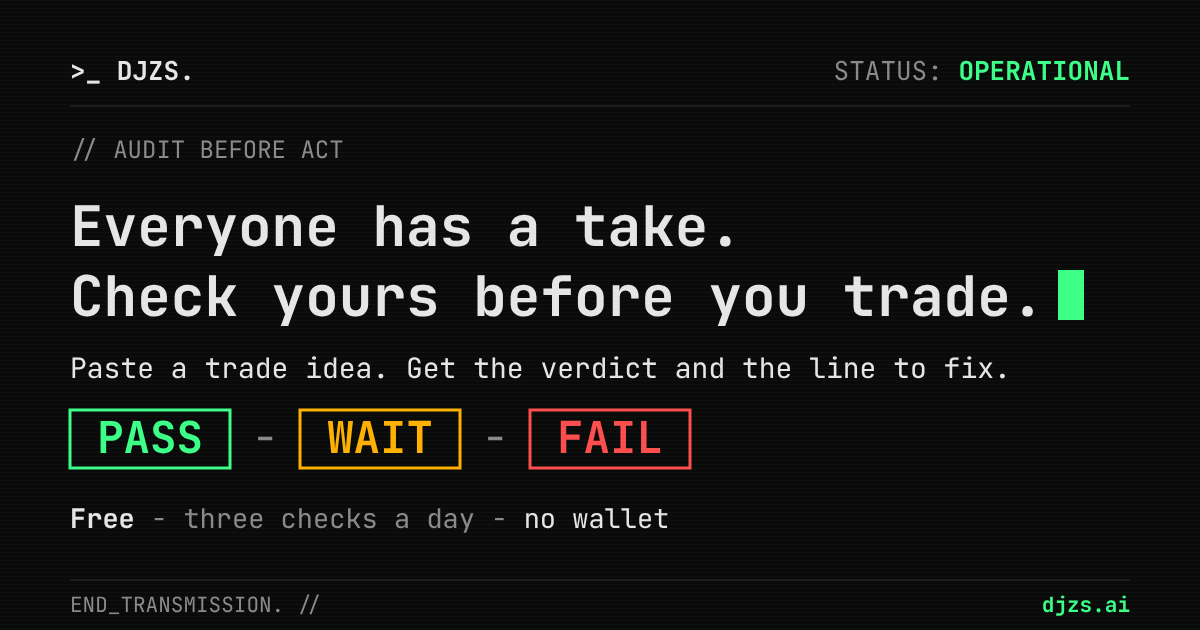
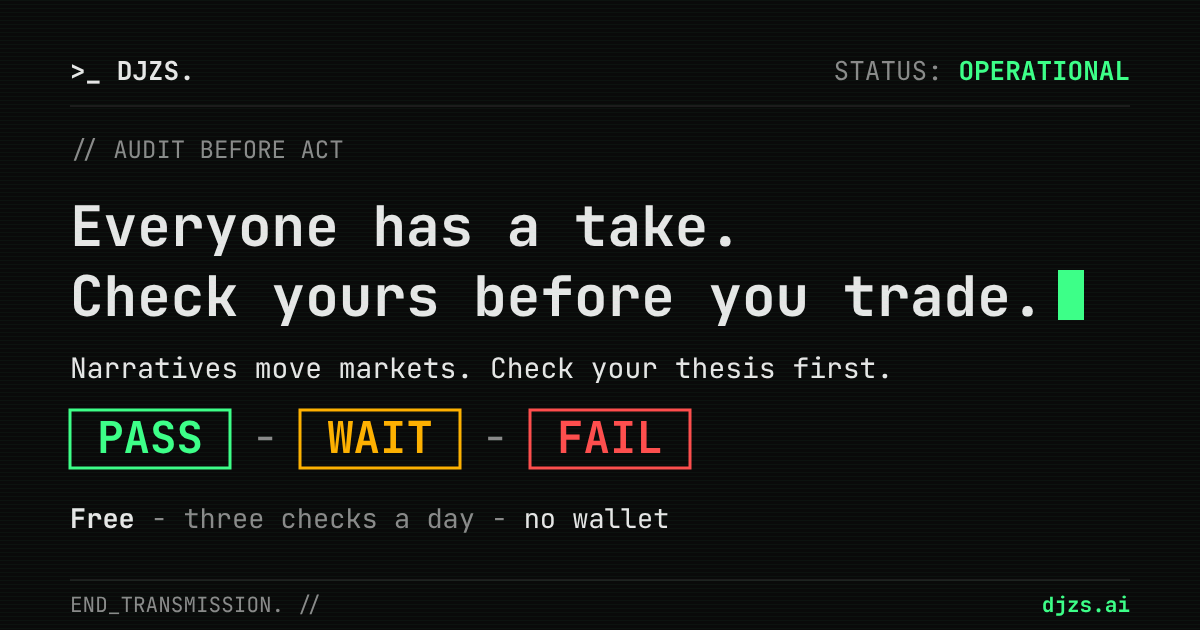
site: "thesis", not "idea", and the narrative line up front
DJ, 2026-11-21: the pages say idea instead of thesis and nothing about narratives.

- Every visible "idea" on the home page and /verify is now "thesis". Element ids are unchanged.
  On /verify the row names changed with their lookups ("The thesis it was for").
- Home lede: "Narratives move markets. Check that your thesis stands on more than the story: a
  stop, a source for your odds, and the rule the market really pays on."
- The sample tabs are labelled "three narratives in the news, one thesis on each".
- Page descriptions and the social card carry the same line; og:image is versioned to v=3.

The wording says what to check a thesis for. It does not claim the check detects a narrative.

Claude-Session: https://claude.ai/code/session_01VQGRMZjHoqD7X4Lzz229Gr

Changed region(s): [[0.0617, 0.573, 0.8325, 0.6032]]

diff --git a/site/index.html b/site/index.html
@@ -4,18 +4,18 @@
 <meta charset="utf-8">
 <meta name="viewport" content="width=device-width, initial-scale=1, viewport-fit=cover">
 <title>DJZS: everyone has a take. Check yours before you trade.</title>
-<meta name="description" content="Paste a prediction-market bet or a perp trade. Get PASS, WAIT or FAIL with the reasons in plain words. Free, no wallet. Agents: mcp.djzs.ai/mcp">
+<meta name="description" content="Narratives move markets. Paste your thesis for a prediction-market bet or a perp trade and get PASS, WAIT or FAIL with the reasons in plain words. Free, no wallet. Agents: mcp.djzs.ai/mcp">
 <link rel="canonical" href="https://djzs.ai/">
 <meta property="og:type" content="website">
 <meta property="og:site_name" content="DJZS">
 <meta property="og:title" content="Everyone has a take. Check yours before you trade.">
-<meta property="og:description" content="Paste the idea. Get PASS, WAIT or FAIL with the reasons in plain words and the line to fix. Free, three a day, no wallet. Agents connect at mcp.djzs.ai/mcp.">
+<meta property="og:description" content="Narratives move markets. Check that your thesis stands on more than the story. PASS, WAIT or FAIL with the line to fix. Free, three a day, no wallet. Agents connect at mcp.djzs.ai/mcp.">
 <meta property="og:url" content="https://djzs.ai/">
-<meta property="og:image" content="https://djzs.ai/og.png?v=2">
+<meta property="og:image" content="https://djzs.ai/og.png?v=3">
 <meta property="og:image:width" content="1200">
 <meta property="og:image:height" content="630">
 <meta name="twitter:card" content="summary_large_image">
-<meta name="twitter:image" content="https://djzs.ai/og.png?v=2">
+<meta name="twitter:image" content="https://djzs.ai/og.png?v=3">
 <meta name="theme-color" content="#0A0A0A">
 <meta name="base:app_id" content="6a4ff1335b92d87d8ee9e8f0">
 <link rel="preload" href="/assets/fonts/JetBrainsMono-latin.woff2" as="font" type="font/woff2" crossorigin>
@@ -52,6 +52,7 @@
   /* the hero shows one real check as the terminal would print it */
   .demo{border:1px solid var(--fail);background:var(--well);padding:18px 20px 16px;font-size:14px}
   @media (min-width:980px){.hero h1{font-size:min(46px,3.6vw)}}
+  .demo > .label{margin:0 0 10px}
   .demo .exrow{margin:0 0 16px;gap:0}
   .demo .exrow .btn{flex:1 1 0;min-width:0;min-height:46px;padding:8px 10px;font-size:11.5px;letter-spacing:.04em;background:transparent;border-color:var(--rule);color:var(--muted);margin-left:-1px}.demo .exrow .btn:first-child{margin-left:0}
   .demo .exrow .btn.on{color:var(--canvas);background:var(--text);border-color:var(--text)}
@@ -104,7 +105,7 @@
   .log{margin:12px 0 0;font-size:14px;color:var(--muted);min-height:1.6em}.log .xx{color:var(--fail)}.log .ok{color:var(--pass)}
   .quota{margin:4px 0 0;font-size:12.5px;color:var(--muted)}
 
-  /* the examples: sample ideas on real markets, each with the answer the live check gave for it */
+  /* the examples: sample theses on real markets, each with the answer the live check gave for it */
   .examples{margin:0 0 20px}
   .exrow{display:flex;flex-wrap:wrap;gap:8px}
   .exrow .btn{flex:1 1 200px;display:flex;flex-direction:column;align-items:flex-start;gap:4px;text-align:left;font-size:13.5px;letter-spacing:.05em;padding:12px 16px;min-height:60px;color:var(--text);border-color:#3a3a3a;background:var(--panel)}.exrow .btn .m{font-size:11.5px;font-weight:400;letter-spacing:.04em;color:var(--muted);text-transform:none}
@@ -186,11 +187,12 @@
       <div class="hero-copy">
       <p class="path"><span class="p">~/djzs</span> $ <span id="cmd">check --pm</span><span class="cursor" aria-hidden="true"></span></p>
       <h1 id="h1">Everyone has a take. <span class="l2">Check yours before you trade.</span></h1>
-      <p class="lede">Find the hole in your trade before the market does: the missing stop, the odds with no source, the rule you did not read.</p>
-      <p class="lede2">Paste the idea. Get <b class="c-pass">PASS</b>, <b class="c-wait">WAIT</b> or <b class="c-fail">FAIL</b> and the line to fix. Free, three a day, no wallet.</p>
+      <p class="lede">Narratives move markets. Check that your thesis stands on more than the story: a stop, a source for your odds, and the rule the market really pays on.</p>
+      <p class="lede2">Paste the thesis. Get <b class="c-pass">PASS</b>, <b class="c-wait">WAIT</b> or <b class="c-fail">FAIL</b> and the line to fix. Free, three a day, no wallet.</p>
       </div>
       <div class="demo" id="demo">
-        <div class="exrow" id="ex-row" role="group" aria-label="Sample ideas from the news">
+        <p class="label">three narratives in the news, one thesis on each</p>
+        <div class="exrow" id="ex-row" role="group" aria-label="Sample theses from the news">
           <button type="button" class="btn" data-ex="dip" aria-pressed="false">Chasing the dip</button>
           <button type="button" class="btn" data-ex="headline" aria-pressed="false">Betting the headline</button>
           <button type="button" class="btn" data-ex="bubble" aria-pressed="false">Shorting the bubble</button>
@@ -215,7 +217,7 @@
     </ul>
 
     <section class="step" id="idea" aria-labelledby="s1">
-      <p class="label" id="s1">your trade idea</p>
+      <p class="label" id="s1">your trade thesis</p>
       <div class="panel">
         <p class="status" id="last-status" hidden></p>
         <div class="kind" role="group" aria-label="What are you checking?">
@@ -223,8 +225,8 @@
           <button type="button" class="btn" id="kind-perp" aria-pressed="false">Perp or spot trade</button>
         </div>
         <p class="hint" id="kind-hint">Name the venue and the question.</p>
-        <details class="needs" id="needs"><summary>What a complete idea includes</summary><ul id="needs-list"><li>The market's own terms: the question, the date it settles, and the source that settles it.</li><li>Your odds and where they come from: the number, a source someone else can check (a dataset, an official source or your own math), and the date you read it.</li><li>What would prove you wrong: the specific event, before the market settles.</li><li>Why the market is wrong. &ldquo;Everyone agrees&rdquo; is not a reason. This one is advice; it never changes the verdict.</li></ul></details>
-        <label class="flabel" for="thesis" id="thesis-label">Your idea</label>
+        <details class="needs" id="needs"><summary>What a complete thesis includes</summary><ul id="needs-list"><li>The market's own terms: the question, the date it settles, and the source that settles it.</li><li>Your odds and where they come from: the number, a source someone else can check (a dataset, an official source or your own math), and the date you read it.</li><li>What would prove you wrong: the specific event, before the market settles.</li><li>Why the market is wrong. &ldquo;Everyone agrees&rdquo; is not a reason. This one is advice; it never changes the verdict.</li></ul></details>
+        <label class="flabel" for="thesis" id="thesis-label">Your thesis</label>
         <textarea id="thesis" rows="8" spellcheck="true" placeholder="Kalshi, [the market question]. It settles on [date] by [source]. I am buying [YES or NO] at [price]. [Your source] puts it at [number] as of [date]. I am wrong if [specific event] happens before it settles."></textarea>
         <div class="controls">
           <button type="button" class="btn" id="run" disabled>Check it</button>
@@ -244,7 +246,7 @@
         <div class="change" id="change" hidden><p class="line"><b>change //</b> <span id="change-from"></span> &rarr; <span id="change-to"></span></p><p class="say" id="change-say"></p></div>
         <div class="ledger" id="ledger"></div>
         <div class="cleared" id="cleared" hidden><p class="label">cleared since the last check</p><div id="cleared-list"></div></div>
-        <p class="again" id="again" hidden><a href="#thesis" id="edit-link">Edit the idea</a>, then press <b>Check again</b>. Fixing a reason clears its flag. It does not make the trade good.</p>
+        <p class="again" id="again" hidden><a href="#thesis" id="edit-link">Edit the thesis</a>, then press <b>Check again</b>. Fixing a reason clears its flag. It does not make the trade good.</p>
         <p class="again" id="recorded" hidden></p>
         <details class="tech"><summary>Technical details (hashes, codes, ruleset)</summary><div class="keys" id="keys"></div></details>
         <div class="offer" id="offer">
@@ -283,12 +285,12 @@
 
   <footer>
     <nav aria-label="More"><a href="/docs">Docs</a><a href="/scan">Scan room</a><a href="/build">Services</a><a href="https://github.com/SIFR0-dev/djzs-AI/issues">Support</a><a href="/legal">Legal</a><a href="/terms">Terms</a><a href="https://x.com/Djzs_ai">X @Djzs_ai</a></nav>
-    <div class="k"><b>audit, not advice</b>: a verdict says whether the idea is complete and free of the listed defects. It does not check that your facts are true, and never says the trade wins. An example market, when one is loaded, is real; it is not a recommendation. <a href="/terms">Terms</a>. <a href="/docs/measured">What has and has not been measured</a>.</div>
+    <div class="k"><b>audit, not advice</b>: a verdict says whether the thesis is complete and free of the listed defects. It does not check that your facts are true, and never says the trade wins. An example market, when one is loaded, is real; it is not a recommendation. <a href="/terms">Terms</a>. <a href="/docs/measured">What has and has not been measured</a>.</div>
     <p class="sig"><span class="p">END_TRANSMISSION.</span> // djzs.ai &middot; audit before act</p>
   </footer>
 </div>
 
-<!-- Three sample ideas on real markets. Each `body` is the answer the live free check gave for that exact `thesis` on the
+<!-- Three sample theses on real markets. Each `body` is the answer the live free check gave for that exact `thesis` on the
      `checked` day, recorded unchanged after two runs agreed. djzs-trust-mcp/test/site-examples.test.mjs recomputes both
      hashes from the text. To swap one: write the text, POST it to /try/verdict twice, paste the answer, move `closes`.
      After `closes` (a UTC day) the page stops offering them. -->
@@ -389,9 +391,9 @@ $("clear").addEventListener("click", () => { $("thesis").value = ""; dropExample
 $("edit-link").addEventListener("click", (e) => { e.preventDefault(); scrollToEl($("idea")); $("thesis").focus({ preventScroll: true }); });
 const KIND = {
   pm: { needs: ["The market's own terms: the question, the date it settles, and the source that settles it.", "Your odds and where they come from: the number, a source someone else can check (a dataset, an official source or your own math), and the date you read it.", "What would prove you wrong: the specific event, before the market settles.", "Why the market is wrong. \u201CEveryone agrees\u201D is not a reason. This one is advice; it never changes the verdict."],
-        hint: "Name the venue and the question.", label: "Your idea", ph: "Kalshi, [the market question]. It settles on [date] by [source]. I am buying [YES or NO] at [price]. [Your source] puts it at [number] as of [date]. I am wrong if [specific event] happens before it settles." },
+        hint: "Name the venue and the question.", label: "Your thesis", ph: "Kalshi, [the market question]. It settles on [date] by [source]. I am buying [YES or NO] at [price]. [Your source] puts it at [number] as of [date]. I am wrong if [specific event] happens before it settles." },
   perp: { needs: ["The instrument, long or short, and your entry.", "Your stop, or the event that would prove you wrong.", "Your size and leverage.", "Why the price should move, in one sentence, with the data behind it and the date you read it. What other people are doing is not a reason."],
-        hint: "Name the instrument and say long or short.", label: "Your idea", ph: "[Venue], [instrument], [long or short] at [entry]. Stop at [price], target [price], size [amount], [n]x. The price should move because [reason], per [source] as of [date]. I am out if [event]." },
+        hint: "Name the instrument and say long or short.", label: "Your thesis", ph: "[Venue], [instrument], [long or short] at [entry]. Stop at [price], target [price], size [amount], [n]x. The price should move because [reason], per [source] as of [date]. I am out if [event]." },
 };
 function setKind(k){
   state.kind = k;
@@ -408,7 +410,7 @@ $("kind-perp").addEventListener("click", () => setKind("perp"));
 // A link can open the perp check directly: djzs.ai/?kind=perp
 if (new URLSearchParams(location.search).get("kind") === "perp") setKind("perp");
 
-// ── the three examples. Sample ideas on real markets, each carrying the answer the live check gave for that exact
+// ── the three examples. Sample theses on real markets, each carrying the answer the live check gave for that exact
 // text, recorded unchanged. Loading one calls nothing and uses no free check. Past `closes` none is offered.
 const EX = (() => { try { return JSON.parse($("examples-data").textContent); } catch { return null; } })();
 const exampleList = EX && Array.isArray(EX.examples) && new Date().toISOString().slice(0, 10) <= EX.closes ? EX.examples : [];
@@ -454,7 +456,7 @@ function dropExample(){
   state.last = null; markExample(null);
   $("out").hidden = true; $("last-status").hidden = true;
 }
-// An example's recorded answer is a fair "before" only for an edit of that example, not for another idea typed over it.
+// An example's recorded answer is a fair "before" only for an edit of that example, not for another thesis typed over it.
 function sameIdea(a, b){
   const words = (t) => new Set(t.toLowerCase().match(/[a-z0-9$%]+/g) ?? []);
   const A = words(a), B = words(b); let n = 0;
@@ -486,7 +488,7 @@ $("run").addEventListener("click", async () => {
   const kind = state.kind;
   const btn = $("run"); btn.disabled = true;
   try {
-    log("run-log", "Reading the idea, then scoring it…");
+    log("run-log", "Reading the thesis, then scoring it…");
     const r = await fetch(`${WORKER}/try/verdict`, { method: "POST", headers: { "content-type": "application/json" }, body: JSON.stringify({ kind, intent, anon: anonId() }) });
     const body = await r.json().catch(() => ({ ok: false, error: `the check answered HTTP ${r.status}` }));
     if (!r.ok || !body.ok) {
@@ -510,13 +512,13 @@ $("run").addEventListener("click", async () => {
 // Plain names, what fired, and the line to fix. Fixed text keyed by the engine's code name: nothing here is written by a model.
 // The engine's `evidence` field is its own rule sentence, not a quote of the user's text, so it is never shown as one.
 const FLAG = {
-  FALSIFICATION_ABSENT:     { name: "No way to be wrong", what: "The idea treats the outcome as settled and names nothing that would prove it wrong.", fix: "Write the specific event that would prove you wrong before the market settles." },
+  FALSIFICATION_ABSENT:     { name: "No way to be wrong", what: "The thesis treats the outcome as settled and names nothing that would prove it wrong.", fix: "Write the specific event that would prove you wrong before the market settles." },
   NARRATIVE_RESOLUTION_GAP: { name: "Off the market's terms", what: "The reasoning argues something next to this market's question, not its own date, threshold, definition or settlement source.", fix: "Argue the market's own terms: the date it resolves, its threshold or definition, and the source that settles it." },
   PROBABILITY_UNSOURCED:    { name: "Odds with no source", what: "There is a probability, or an implied one, with no checkable source behind it.", fix: "Back the claim with something checkable: a dataset, an official source or your own math, and the date you read it." },
   CONSENSUS_NO_EDGE:        { name: "Agreement is not an edge", what: "The reason given is that everyone agrees, or that the price already says so.", fix: "Say why the market is wrong. This one is advice: it never changes the verdict.", advice: true },
-  EXECUTION_UNBOUND:        { name: "No stop or size limit", what: "Nothing in the idea limits the loss or says when the trade ends.", fix: "Write the stop level and the largest size you will allow, before the order goes out." },
-  CIRCULAR_LOGIC:           { name: "No reason for the trade", what: "The idea states a position but no reason the price should move.", fix: "Say in one sentence why the price should move." },
-  ORACLE_UNVERIFIED:        { name: "Data source not vouched for", what: "The trade leans on a data source the idea does not vouch for.", fix: "Name each source you rely on, who publishes it, and when you read it." },
+  EXECUTION_UNBOUND:        { name: "No stop or size limit", what: "Nothing in the thesis limits the loss or says when the trade ends.", fix: "Write the stop level and the largest size you will allow, before the order goes out." },
+  CIRCULAR_LOGIC:           { name: "No reason for the trade", what: "The thesis states a position but no reason the price should move.", fix: "Say in one sentence why the price should move." },
+  ORACLE_UNVERIFIED:        { name: "Data source not vouched for", what: "The trade leans on a data source the thesis does not vouch for.", fix: "Name each source you rely on, who publishes it, and when you read it." },
   FOMO_LOOP:                { name: "Chasing the crowd", what: "The reason given is what other people are doing or saying.", fix: "Replace the social signal with a number you can check, or say why the crowd is wrong." },
 };
 const UNSETTLED = {
@@ -528,7 +530,7 @@ const UNSETTLED = {
   position_size:          { name: "Your size", fix: "State the position size." },
   leverage:               { name: "Your leverage", fix: "State the leverage, or say there is none." },
   take_profit:            { name: "Your target", fix: "State the price where you take profit." },
-  data_sources:           { name: "The data you relied on", fix: "Name the data behind the idea and when you read it." },
+  data_sources:           { name: "The data you relied on", fix: "Name the data behind the thesis and when you read it." },
   oracle_source:          { name: "Your price source", fix: "Name the price feed the trade depends on." },
   confidence:             { name: "How sure you are", fix: "Say how confident you are and what that rests on." },
 };
@@ -615,8 +617,8 @@ function renderExampleHead(ex){
   head.hidden = !ex; rec.hidden = !ex;
   if (!ex) { head.innerHTML = ""; rec.innerHTML = ""; return; }
   const where = ex.url ? `<a href="${esc(ex.url)}" target="_blank" rel="noopener">${esc(ex.where)}</a>` : esc(ex.where);
-  head.innerHTML = `<p class="label">sample idea</p><q>${esc(ex.thesis)}</q>${ex.rule ? `<span class="src rule">${esc(ex.rule)}</span>` : ""}<span class="src">Real market: ${where}. Written ${esc(EX.checked)}. A sample, not a recommendation.</span>`;
-  rec.innerHTML = `Recorded ${esc(EX.checked)}: the answer the live check gave for this exact text. <a href="#thesis" id="ex-edit">Edit the idea</a>, then check it yourself. That uses one free check.`;
+  head.innerHTML = `<p class="label">sample thesis</p><q>${esc(ex.thesis)}</q>${ex.rule ? `<span class="src rule">${esc(ex.rule)}</span>` : ""}<span class="src">Real market: ${where}. Written ${esc(EX.checked)}. A sample, not a recommendation.</span>`;
+  rec.innerHTML = `Recorded ${esc(EX.checked)}: the answer the live check gave for this exact text. <a href="#thesis" id="ex-edit">Edit the thesis</a>, then check it yourself. That uses one free check.`;
   $("ex-edit").addEventListener("click", (e) => { e.preventDefault(); scrollToEl($("idea")); $("thesis").focus({ preventScroll: true }); });
 }
 
@@ -631,7 +633,7 @@ function renderVerdict(b, prev, ex){
   const unknown = Array.isArray(b.unknown_fields) ? b.unknown_fields : [];
   const flags = Array.isArray(b.flags_detail) ? b.flags_detail : [];
   const critical = flags.filter((f) => f.severity === "CRITICAL").length;
-  const titles = { pass: "Nothing failed", wait: "Not enough to judge", fail: "Do not place this", refused: "Skipped: not the kind of idea selected above" };
+  const titles = { pass: "Nothing failed", wait: "Not enough to judge", fail: "Do not place this", refused: "Skipped: not the kind of thesis selected above" };
   $("vtitle").textContent = titles[st];
   $("vmeta").textContent = st === "refused" ? "" : `score ${b.risk_score} · fails at ${LINE[kind]}`;
   let note = "";
@@ -645,16 +647,16 @@ function renderVerdict(b, prev, ex){
   renderChange(prev, { ...b, kind });
   const detail = Array.isArray(b.unsettled) ? Object.fromEntries(b.unsettled.filter((x) => x && typeof x.field === "string").map((x) => [x.field, x])) : {};
   const rows = flags.map(flagRow).join("") + unknown.map((u) => unsettledRow(u, b.verdict, detail[u])).join("");
-  $("ledger").innerHTML = rows || (st === "pass" ? `<div class="claim" data-r="pass"><span class="tok">OK</span><p class="claim-name">No defects<span class="chip">0 flags</span></p><p class="claim-body">Every scored part of the idea was there and no failure pattern matched.</p></div>` : "");
+  $("ledger").innerHTML = rows || (st === "pass" ? `<div class="claim" data-r="pass"><span class="tok">OK</span><p class="claim-name">No defects<span class="chip">0 flags</span></p><p class="claim-body">Every scored part of the thesis was there and no failure pattern matched.</p></div>` : "");
   $("ledger").hidden = !rows && st !== "pass";
   $("again").hidden = !!ex || st === "pass" || st === "refused";
   $("keys").innerHTML = st === "refused" ? "" : `<span>codes</span><b>${esc((b.flags ?? []).join(", ") || "none")}</b><span>ruleset</span><b>${esc(b.ruleset ?? "")}</b><span>intent_sha256</span><b>${esc(b.intent_sha256 ?? "")}</b><span>intent_hash</span><b>${esc(b.intent_hash ?? "n/a (free-text intent)")}</b><span>verdict_hash</span><b>${esc(b.verdict_hash ?? "")}</b><span>attested</span><b>no. Free verdicts are not written anywhere.</b>`;
-  // A sample idea is not something to buy a receipt for. The offer comes back with the person's own check.
+  // A sample thesis is not something to buy a receipt for. The offer comes back with the person's own check.
   $("offer").hidden = st === "refused" || !!ex;
   setReceiptFields(kind);
   $("pay").disabled = false; log("pay-log", "");
   const ls = $("last-status");
-  ls.innerHTML = ex ? `<span class="ok">EX</span><span class="v">Example loaded, with the answer the check gave it. Edit it and check it yourself, or press <b>Clear</b> and paste your own.</span>` : st === "refused" ? `<span class="dd">--</span><span class="v">Last check was skipped. Pick the right kind, or name the venue, then check again.</span>` : `<span class="dd">--</span><span class="v">Last check: <b>${esc(b.verdict)}</b>, score ${esc(String(b.risk_score))}. Edit the idea, then check again.</span>`;
+  ls.innerHTML = ex ? `<span class="ok">EX</span><span class="v">Example loaded, with the answer the check gave it. Edit it and check it yourself, or press <b>Clear</b> and paste your own.</span>` : st === "refused" ? `<span class="dd">--</span><span class="v">Last check was skipped. Pick the right kind, or name the venue, then check again.</span>` : `<span class="dd">--</span><span class="v">Last check: <b>${esc(b.verdict)}</b>, score ${esc(String(b.risk_score))}. Edit the thesis, then check again.</span>`;
   ls.hidden = false;
   scrollToEl($("out"));
   v.focus({ preventScroll: true });

diff --git a/site/verify.html b/site/verify.html
@@ -67,7 +67,7 @@
     <p class="lede">Paste a DJZS receipt. This page looks up the payment and the public record on Base and tells you whether they match what the receipt says. <b>It does not ask DJZS.</b></p>
     <ul class="checks" aria-label="What gets checked">
       <li><span class="ok" aria-hidden="true">01</span><span><b>The payment happened.</b> Read from Base.</span></li>
-      <li><span class="ok" aria-hidden="true">02</span><span><b>The receipt is for this exact idea.</b> Recomputed from its text.</span></li>
+      <li><span class="ok" aria-hidden="true">02</span><span><b>The receipt is for this exact thesis.</b> Recomputed from its text.</span></li>
       <li><span class="ok" aria-hidden="true">03</span><span><b>The verdict is on the public record.</b> Read from Base.</span></li>
     </ul>
   </header>
@@ -125,7 +125,7 @@
 
   <footer>
     <div class="k">How a receipt is built and what each row means: <a href="/docs/concepts/receipts">receipts in the docs</a>.</div>
-    <div class="k"><a href="/">Check an idea</a> · <a href="/docs">Docs</a> · <a href="/scan">Scan room</a> · <a href="/build">Services</a> · <a href="https://github.com/SIFR0-dev/djzs-AI/issues">Support</a> · <a href="/legal">Legal</a> · <a href="/terms">Terms</a> · <a href="https://x.com/Djzs_ai">X @Djzs_ai</a></div>
+    <div class="k"><a href="/">Check a thesis</a> · <a href="/docs">Docs</a> · <a href="/scan">Scan room</a> · <a href="/build">Services</a> · <a href="https://github.com/SIFR0-dev/djzs-AI/issues">Support</a> · <a href="/legal">Legal</a> · <a href="/terms">Terms</a> · <a href="https://x.com/Djzs_ai">X @Djzs_ai</a></div>
     <p class="sig"><span class="p">END_TRANSMISSION.</span> // djzs.ai/verify · audit before act</p>
   </footer>
 </div>
@@ -233,15 +233,15 @@ async function run(){
   // 2: binding; v2 EIP-712 (intent_hash) and v1 renderIntentText (intent_sha256), checked independently
   let recomputed=null,bindOK=false;
   if(r.intent&&r.intent_hash){try{recomputed=hashTypedData({domain:DOMAIN,types:TYPES,primaryType:"DJZSIntent",message:toDJZSIntent(r.intent)});bindOK=norm(recomputed)===norm(r.intent_hash);
-      C.push({r:bindOK?"pass":"fail",tok:bindOK?"OK":"FAIL",name:"The idea it was for",chip:bindOK?"PROVEN":"MISMATCH",
+      C.push({r:bindOK?"pass":"fail",tok:bindOK?"OK":"FAIL",name:"The thesis it was for",chip:bindOK?"PROVEN":"MISMATCH",
         body:bindOK?"intent_hash reproduced from the intent alone as EIP-712 typed data. The verdict is provably bound to this exact intent, by anyone, with no access to DJZS.":"Recomputed EIP-712 hash does not equal the receipt's intent_hash. Either the intent text differs from what was audited, or the engine's canonicalization has diverged from the published contract.",
         ev:`receipt     ${r.intent_hash}\nrecomputed  ${recomputed}\ndomain      DJZS · 2 · eip155:8453`})}
-    catch(e){C.push({r:"wait",tok:"WAIT",name:"The idea it was for",chip:"ERROR",body:"Could not compute EIP-712 hash.",ev:e.message})}}
+    catch(e){C.push({r:"wait",tok:"WAIT",name:"The thesis it was for",chip:"ERROR",body:"Could not compute EIP-712 hash.",ev:e.message})}}
   if(r.intent&&r.intent_sha256){const v1=await sha256hex(renderIntentText(r.intent));const m=norm(v1)===norm(r.intent_sha256);
-    C.push({r:m?"pass":"fail",tok:m?"OK":"FAIL",name:"The idea it was for (older receipt)",chip:m?"PROVEN":"MISMATCH",
+    C.push({r:m?"pass":"fail",tok:m?"OK":"FAIL",name:"The thesis it was for (older receipt)",chip:m?"PROVEN":"MISMATCH",
       body:m?"intent_sha256 reproduced: sha256 over renderIntentText(intent): sorted keys, one key: value line each, nested objects as compact JSON. A pure function of the intent, recomputable by anyone.":"Recomputed intent_sha256 does not equal the receipt's; the intent text differs from what was audited.",
       ev:`receipt     ${r.intent_sha256}\nrecomputed  ${v1}`})}
-  if(!(r.intent&&(r.intent_hash||r.intent_sha256)))C.push({r:"wait",tok:"WAIT",name:"The idea it was for",chip:"ABSENT",body:"Receipt lacks intent + a binding key."});
+  if(!(r.intent&&(r.intent_hash||r.intent_sha256)))C.push({r:"wait",tok:"WAIT",name:"The thesis it was for",chip:"ABSENT",body:"Receipt lacks intent + a binding key."});
 
   // 3: attestation on EAS
   let attOK=false;
@@ -314,11 +314,11 @@ async function run(){
   // the receipt is not contradicted by somebody else's upload existing. A real
   // provenance failure on the certificate THIS receipt names does, and is
   // included via the Settlement/Attestation/binding trio plus the row itself.
-  const prov=C.find(c=>c.name==="The permanent copy");const bR=C.filter(c=>c.name.startsWith("The idea it was for"));const b={r:bR.some(c=>c.r==="fail")?"fail":bR.some(c=>c.r==="pass")?"pass":"wait"};
+  const prov=C.find(c=>c.name==="The permanent copy");const bR=C.filter(c=>c.name.startsWith("The thesis it was for"));const b={r:bR.some(c=>c.r==="fail")?"fail":bR.some(c=>c.r==="pass")?"pass":"wait"};
   if(s?.r==="fail"||b?.r==="fail"||a?.r==="fail"||prov?.r==="fail")setV("fail","FAIL","This receipt does not match","At least one thing the receipt says is contradicted by what is on Base. Do not rely on it. The rows below show which.");
-  else if(s?.r==="pass"&&b?.r==="pass"&&a?.r==="pass")setV("pass","PASS","It checks out","The payment is on Base. The receipt is for exactly this idea. The verdict is on the public record under the payer's address. All three were read without asking DJZS.","Anyone who runs this gets the same answer.");
-  else if(s?.r==="pass"&&b?.r==="pass")setV("wait","WAIT","Not on the public record yet","The payment and the idea both check out. The public record of the verdict is missing or could not be reached, so this page cannot confirm it.","When it cannot tell, it says so.");
-  else if(s?.r==="pass")setV("wait","WAIT","Cannot tie it to the idea","The payment checks out, but this is an older kind of receipt and the link to the idea could not be recomputed. Run the check again to get a current receipt.","When it cannot tell, it says so.");
+  else if(s?.r==="pass"&&b?.r==="pass"&&a?.r==="pass")setV("pass","PASS","It checks out","The payment is on Base. The receipt is for exactly this thesis. The verdict is on the public record under the payer's address. All three were read without asking DJZS.","Anyone who runs this gets the same answer.");
+  else if(s?.r==="pass"&&b?.r==="pass")setV("wait","WAIT","Not on the public record yet","The payment and the thesis both check out. The public record of the verdict is missing or could not be reached, so this page cannot confirm it.","When it cannot tell, it says so.");
+  else if(s?.r==="pass")setV("wait","WAIT","Cannot tie it to the thesis","The payment checks out, but this is an older kind of receipt and the link to the thesis could not be recomputed. Run the check again to get a current receipt.","When it cannot tell, it says so.");
   else setV("wait","WAIT","Could not confirm the payment","This browser could not reach Base to look the payment up. Try again in a moment.","When it cannot tell, it says so.");
   reset(btn);
 }
